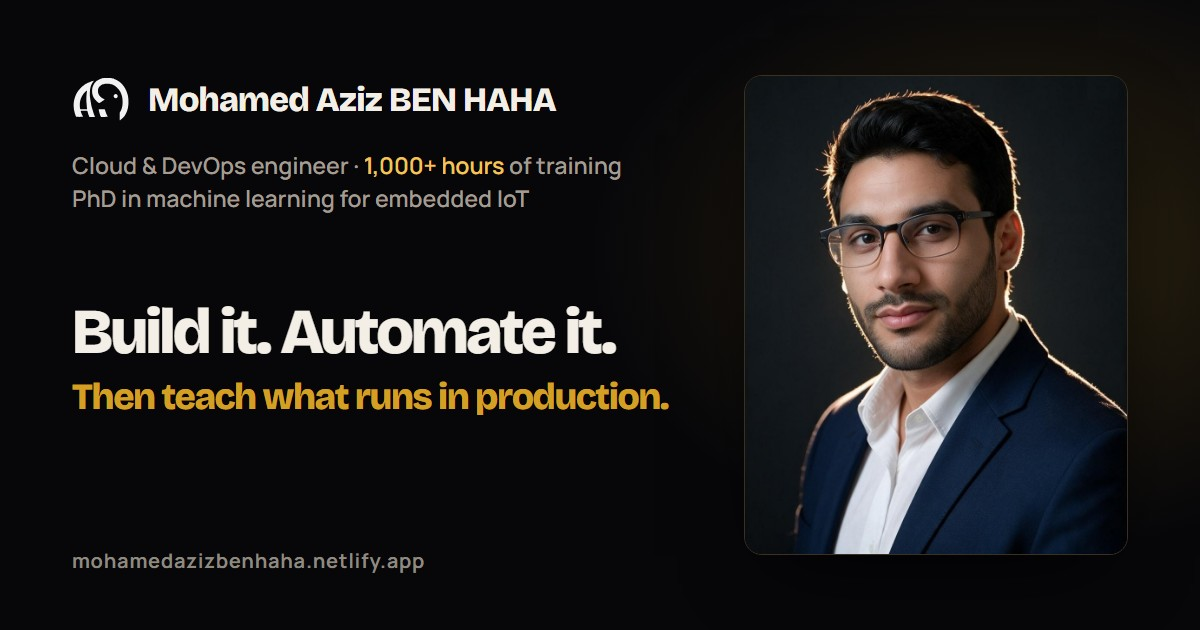
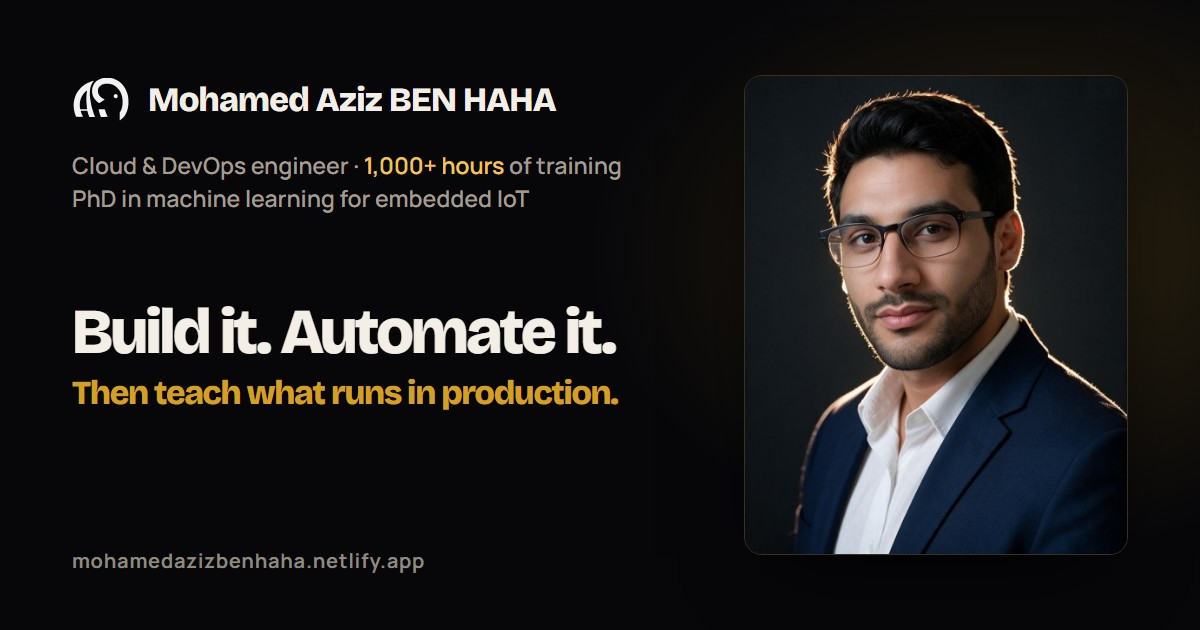
Share image: motto second line sized to end with the first

Changed region(s): [[0.0617, 0.6032, 0.555, 0.6635]]

diff --git a/scripts/og/og-card.html b/scripts/og/og-card.html
@@ -5,9 +5,10 @@
   <p class="r" style="margin-top:22px">Cloud &amp; DevOps engineer · <em>1,000+ hours</em> of training<br>PhD in machine learning for embedded IoT</p>
 </div>
 <div style="position:absolute;left:72px;top:300px;width:640px">
-  <p style="font:800 64px/1 'Bricolage Grotesque';letter-spacing:-.04em">Build it. Automate it.</p>
-  <p style="font:800 37px/1.15 'Bricolage Grotesque';letter-spacing:-.035em;color:#d4a024;margin-top:12px">Then teach what runs in production.</p>
+  <p id="m1" style="font:800 64px/1 'Bricolage Grotesque';letter-spacing:-.04em;white-space:nowrap;display:inline-block">Build it. Automate it.</p>
+  <p id="m2" style="font:800 37px/1.15 'Bricolage Grotesque';letter-spacing:-.035em;color:#d4a024;margin-top:10px;white-space:nowrap;display:inline-block">Then teach what runs in production.</p>
 </div>
 <p style="position:absolute;left:72px;bottom:56px;font:700 20px Manrope;color:#8f8a80;letter-spacing:.04em">mohamedazizbenhaha.netlify.app</p>
 <div style="position:absolute;right:72px;top:75px;width:384px;height:480px;border-radius:18px;overflow:hidden;border:1px solid #3a3122;box-shadow:0 30px 80px -30px #000"><img src="../../res/portrait.jpg" style="width:100%;height:100%;object-fit:cover"></div>
+<script>document.fonts.ready.then(()=>{const a=document.getElementById("m1"),b=document.getElementById("m2");b.style.fontSize=(37*a.offsetWidth/b.offsetWidth).toFixed(2)+"px";b.style.display="block";a.style.display="block"})</script>
 </body></html>
